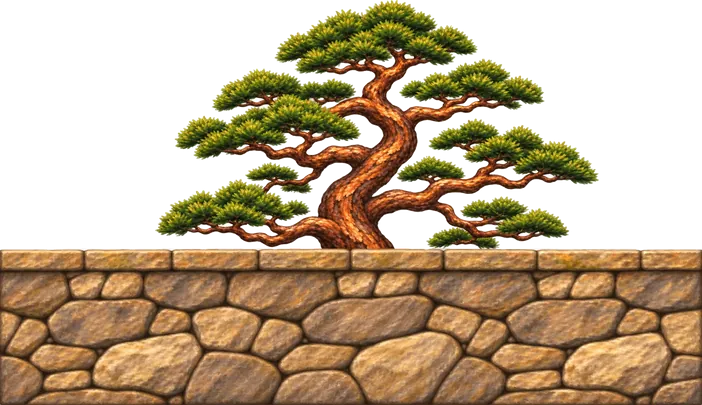
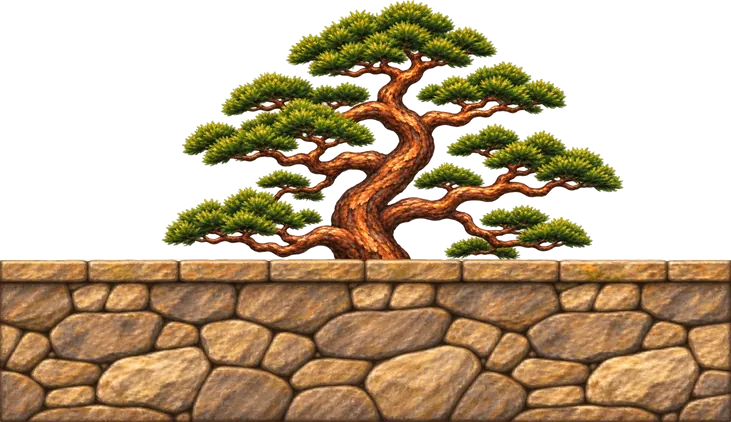
石垣を、石垣の上の松の絵から作り直す（石の大きさをそろえる）
Claude-Session: https://claude.ai/code/session_01U9i96bNyCLMGvYMbYha5MW

diff --git a/src/ui/art.ts b/src/ui/art.ts
@@ -30,7 +30,7 @@ export const ART_WIDTHS: Record<string, number> = {
   bridge: 120,
   pier: 260,
   alley: 150,
-  pinewall: 270,
+  pinewall: 281, // 石垣の高さが、となりの石垣（62）と同じになる幅
   open: 120,
 }
 

diff --git a/scripts/make_town_art.py b/scripts/make_town_art.py
@@ -54,7 +54,8 @@ ART = {
     'well': {'holes': True},
     'ginkgo': {'holes': True},
     'bell': {'holes': True},
-    'stonewall': {},
+    # 石垣は、石垣の上の松（pinewall）の絵の、石垣のところから作る（石の大きさをそろえる）。前の絵は sheets/stonewall.webp
+    'stonewall': {'wall_of': 'pinewall'},
     'kido': {'holes': True},
     'kido-closed': {'holes': True},
     'castlegate': {},
@@ -79,12 +80,16 @@ ART = {
 }
 
 
-def shrink_tree(im, k=0.82):
-    """石垣の上の松: 松だけを小さくして、石垣にのせ直す（石垣を、となりの石垣と同じ高さにすると、松が画面から出るので）"""
+def wall_top(im):
+    """石垣の上のはし: 上から見て、はじめて「左のはしまで絵がある」行"""
     a = np.asarray(im).astype(np.int16)
     white = (a.min(axis=2) > 232) & ((a.max(axis=2) - a.min(axis=2)) < 18)
-    # 石垣の上のはし: 上から見て、はじめて「左のはしまで絵がある」行
-    top = int(np.argmax(~white[:, :6].all(axis=1)))
+    return int(np.argmax(~white[:, :6].all(axis=1)))
+
+
+def shrink_tree(im, k=0.82):
+    """石垣の上の松: 松だけを小さくして、石垣にのせ直す（石垣を、となりの石垣と同じ高さにすると、松が画面から出るので）"""
+    top = wall_top(im)
     tree = im.crop((0, 0, im.width, top + 6))
     wall = im.crop((0, top, im.width, im.height))
     small = tree.resize((round(tree.width * k), round(tree.height * k)), Image.LANCZOS)
@@ -102,6 +107,22 @@ def build(name, opt):
     im = white.convert('RGB')
     if opt.get('pinewall'):
         im = shrink_tree(im)
+    if opt.get('wall_of'):
+        src = Image.open(ROOT / 'art' / 'town' / 'sheets' / f"{opt['wall_of']}.webp").convert('RGBA')
+        white = Image.new('RGBA', src.size, (255, 255, 255, 255))
+        white.alpha_composite(src)
+        src = white.convert('RGB')
+        wall = src.crop((0, wall_top(src), src.width, src.height))
+        # 右に、うら返したものをつなぐ（横にくり返しても、石がとちゅうで切れない）
+        from PIL import ImageOps
+        target_h = round(TILE_H[name] * PX_PER_UNIT)
+        wall = wall.resize((round(wall.width * target_h / wall.height), target_h), Image.LANCZOS)
+        out = Image.new('RGB', (wall.width * 2, wall.height))
+        out.paste(wall, (0, 0))
+        out.paste(ImageOps.mirror(wall), (wall.width, 0))
+        out.save(ROOT / 'art' / 'town' / f'{name}.webp', 'WEBP', quality=80, method=6)
+        print(name, out.size)
+        return out
     if opt.get('raw'):
         # はしまで絵が入っているもの（路地）: 切り出さずに、大きさだけ合わせる
         target = round(unit_widths()[name] * PX_PER_UNIT)
